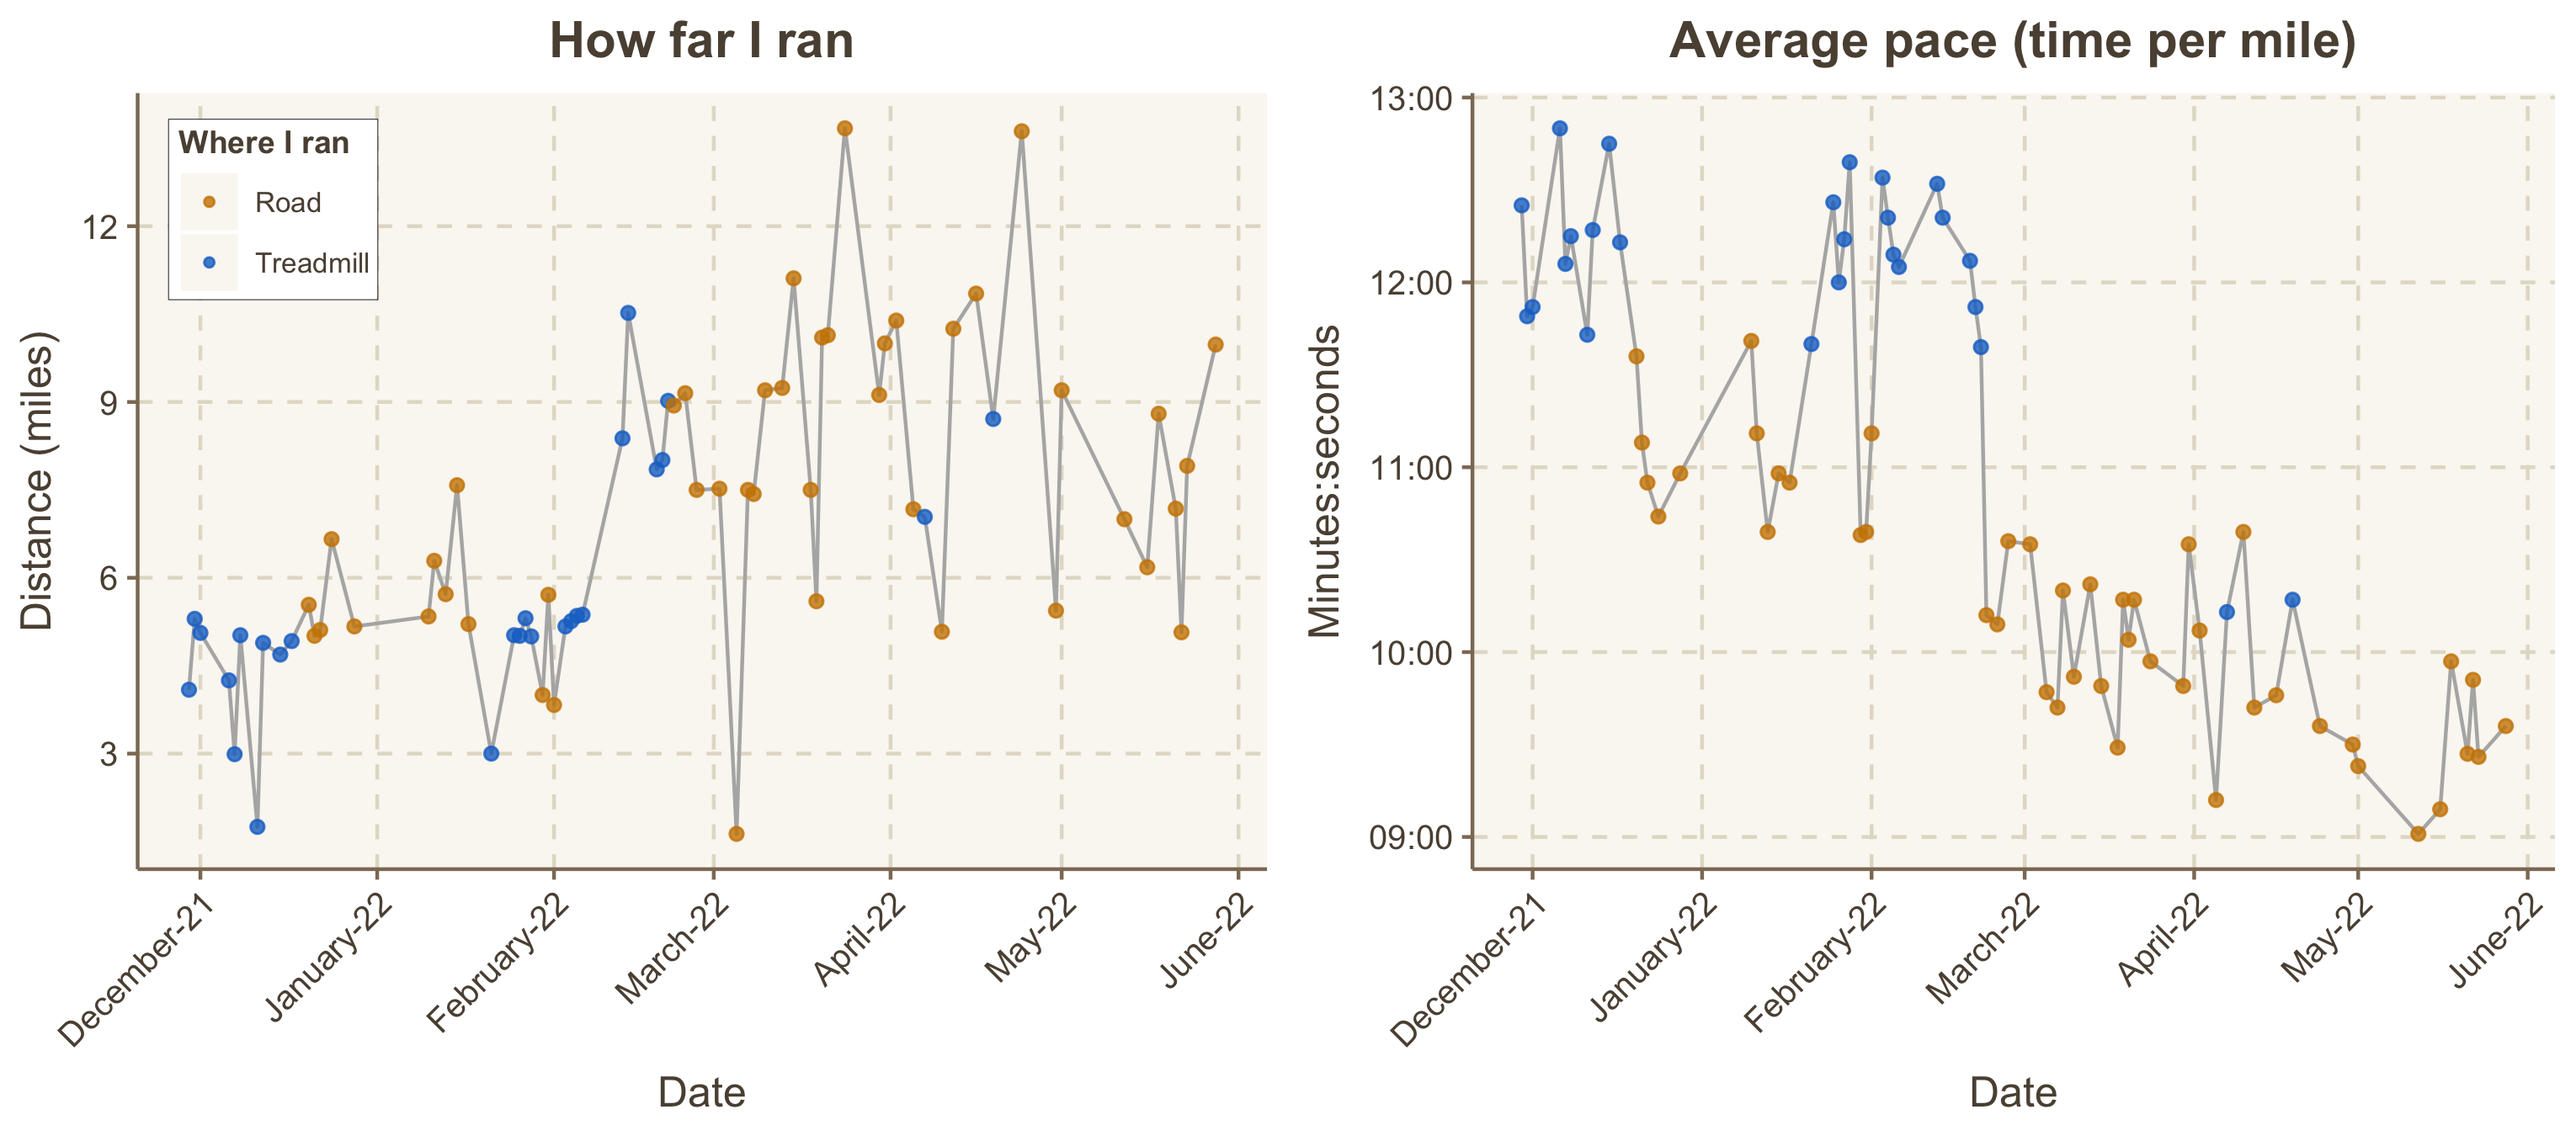
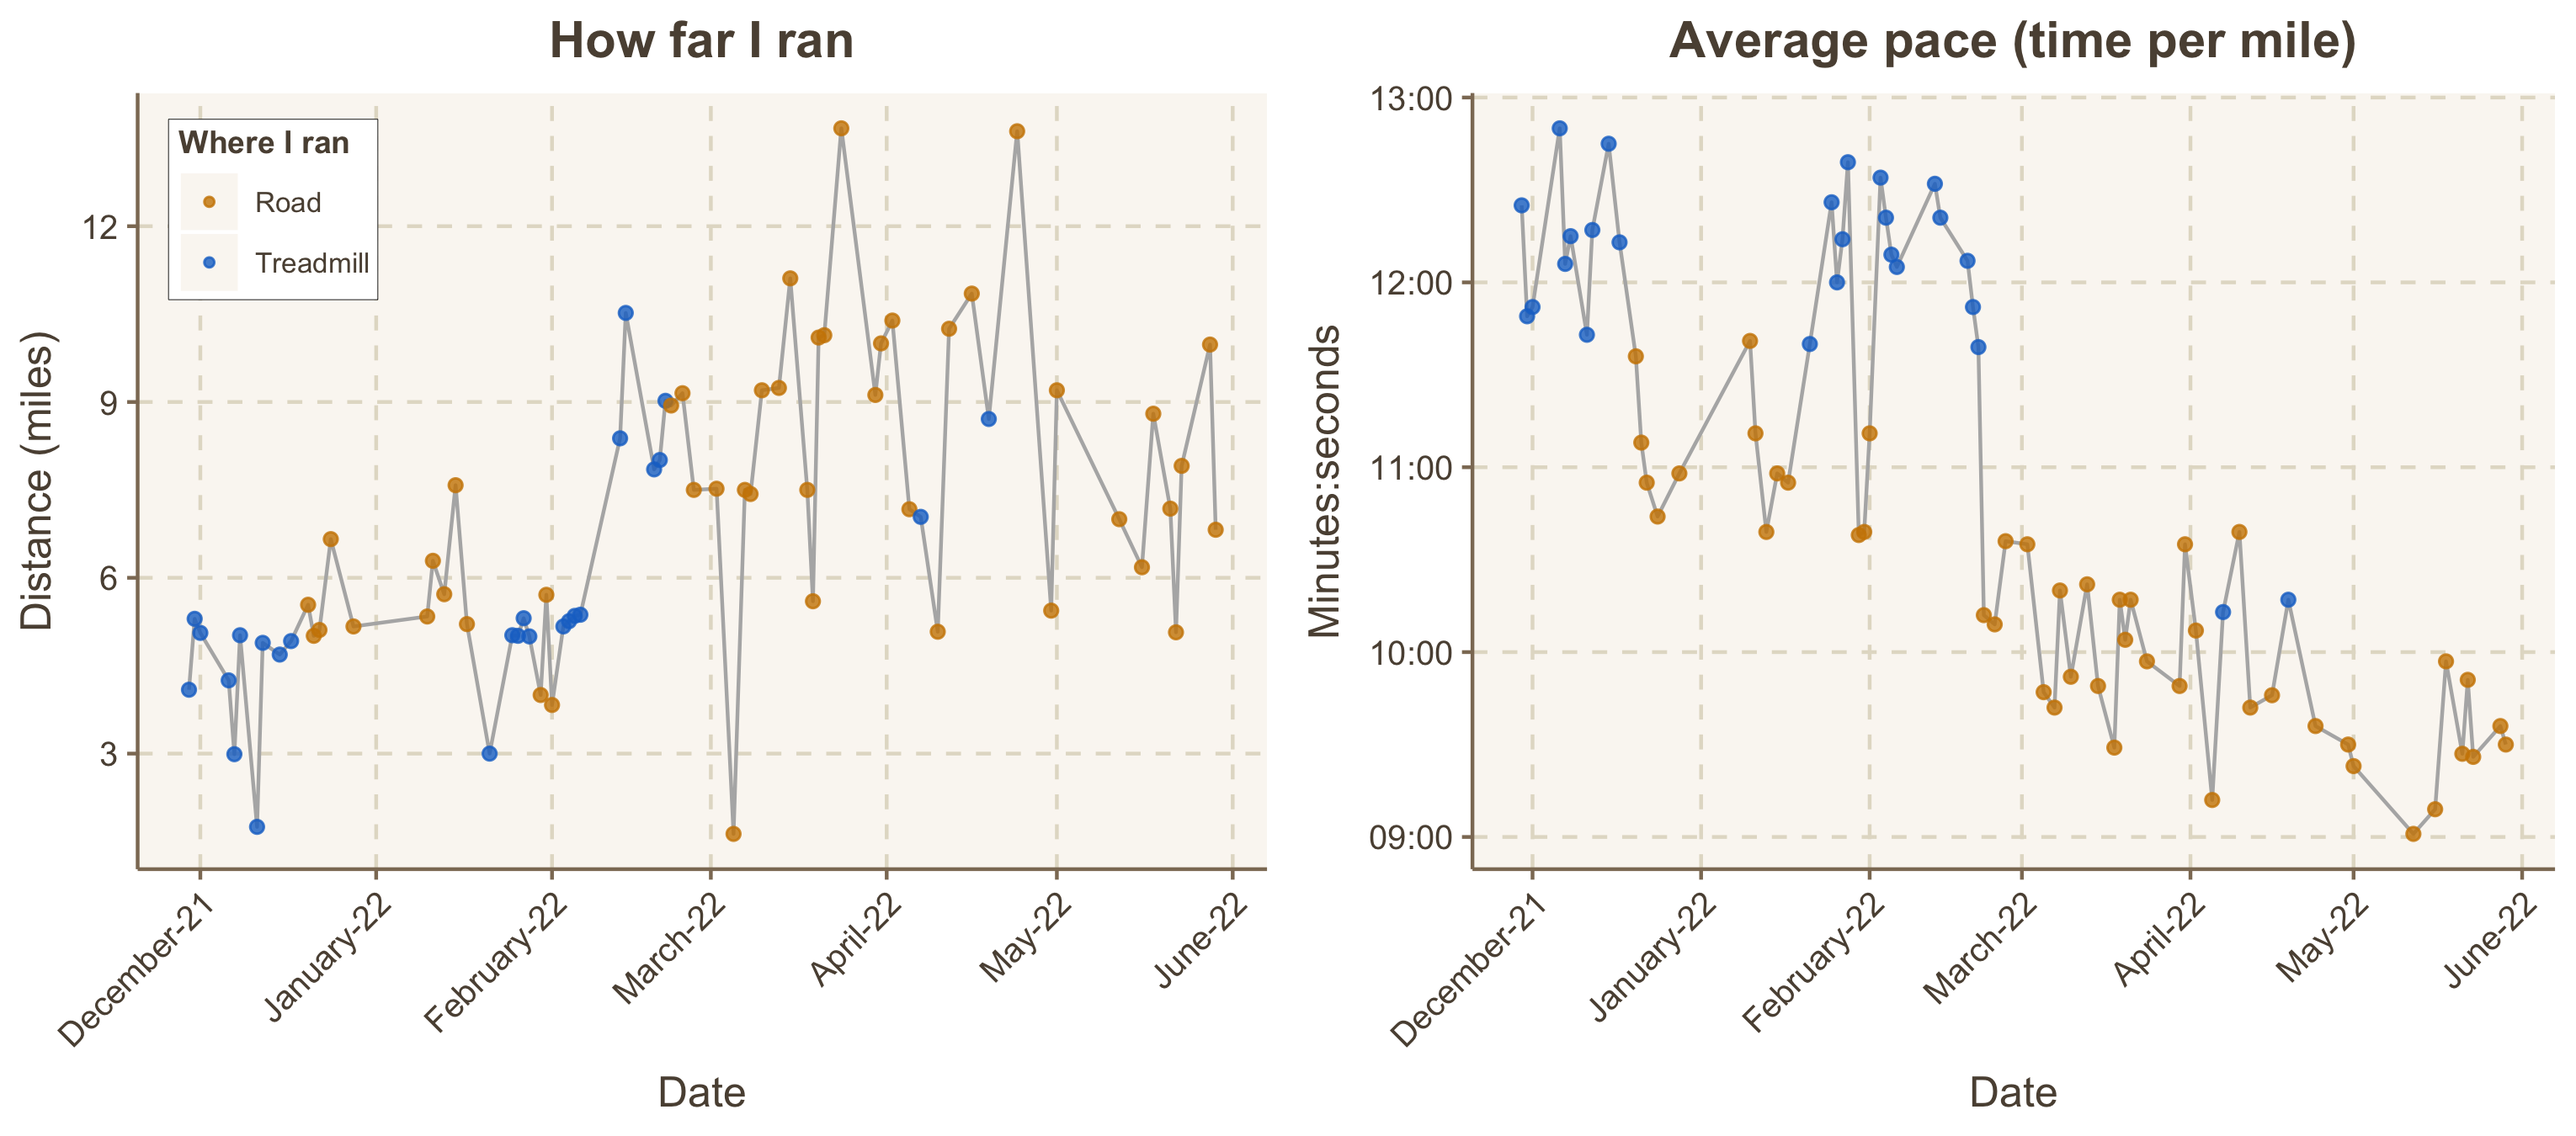
5/29/22

diff --git a/README.md b/README.md
@@ -25,7 +25,7 @@ ggarrange(p1, p2, nrow=1)
 sum(runningData$Miles)
 ```
 
-    ## [1] 487.62
+    ## [1] 494.44
 
 Average distance during the last 10 runs:
 
@@ -33,4 +33,4 @@ Average distance during the last 10 runs:
 mean(tail(runningData$Miles, 10))
 ```
 
-    ## [1] 8.038
+    ## [1] 7.358
